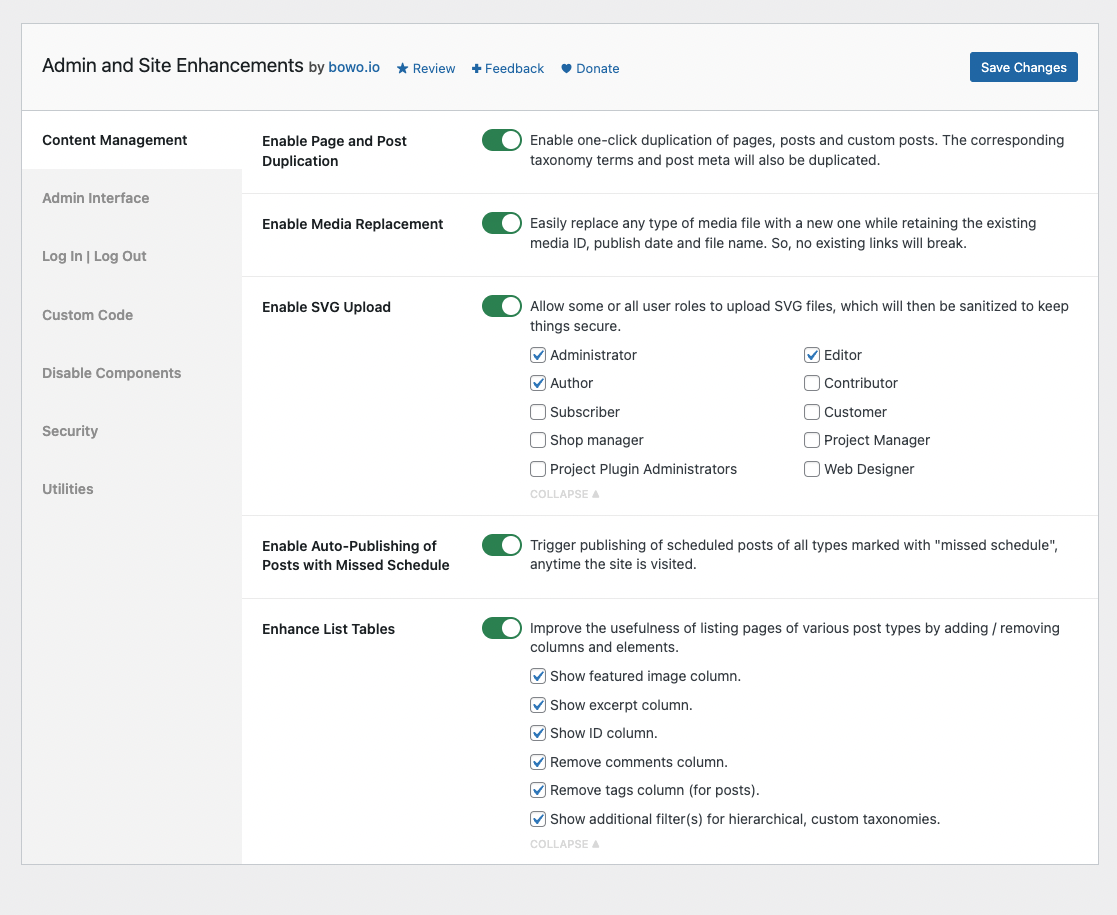
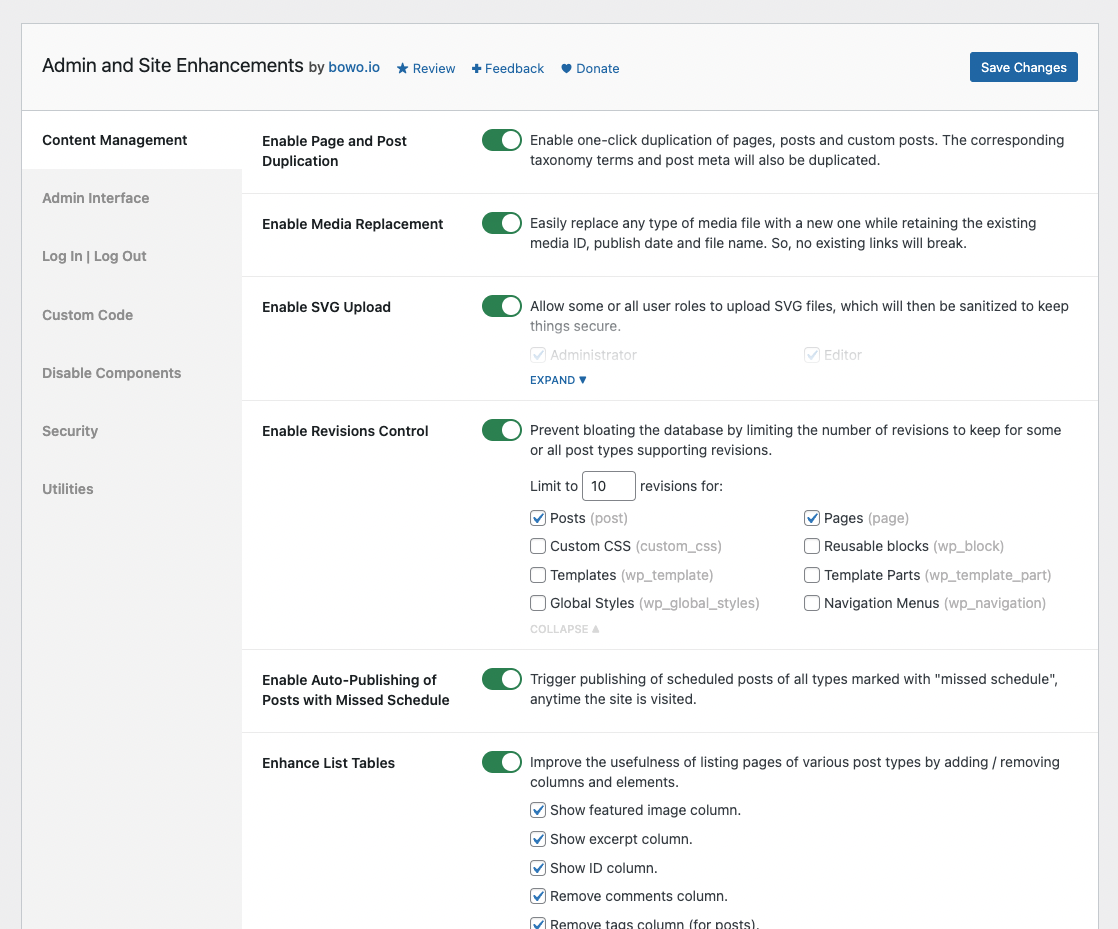
v3.7.0 release

diff --git a/admin-site-enhancements.php b/admin-site-enhancements.php
@@ -4,7 +4,7 @@
  * Plugin Name:       Admin and Site Enhancements
  * Plugin URI:        https://wordpress.org/plugins/admin-site-enhancements/
  * Description:       Easily enable enhancements and features that usually require multiple plugins.
- * Version:           3.6.1
+ * Version:           3.7.0
  * Author:            Bowo
  * Author URI:        https://bowo.io
  * License:           GPL-2.0+
@@ -18,7 +18,7 @@ if ( ! defined( 'ABSPATH' ) ) {
 	exit;
 }
 
-define( 'ASENHA_VERSION', '3.6.1' );
+define( 'ASENHA_VERSION', '3.7.0' );
 define( 'ASENHA_ID', 'asenha' );
 define( 'ASENHA_SLUG', 'admin-site-enhancements' );
 define( 'ASENHA_SLUG_U', 'admin_site_enhancements' );

diff --git a/README.md b/README.md
@@ -5,7 +5,7 @@ Donate link: https://paypal.me/qriouslad
 Tags: enhancements, tweaks, optimizations, tools  
 Requires at least: 4.6  
 Tested up to: 6.1.1  
-Stable tag: 3.6.1  
+Stable tag: 3.7.0  
 Requires PHP: 5.6  
 License: GPLv2 or later  
 License URI: http://www.gnu.org/licenses/gpl-2.0.html
@@ -23,6 +23,7 @@ Admin and Site Enhancements helps you to easily enhance various admin workflows 
 * **Enable Page and Post Duplication**. Enable one-click duplication of pages, posts and custom posts. The corresponding taxonomy terms and post meta will also be duplicated.
 * **Enable Media Replacement**. Easily replace any type of media file with a new one while retaining the existing media ID, publish date and file name. So, no existing links will break.
 * **Enable SVG Upload**. Allow some or all user roles to upload SVG files, which will then be sanitized to keep things secure.
+* **Enable Revisions Control**. Prevent bloating the database by limiting the number of revisions to keep for some or all post types supporting revisions.
 * **Enable Auto-Publishing of Posts with Missed Schedule**. Trigger publishing of scheduled posts of all types marked with "missed schedule", anytime the site is visited.
 * **Enhance List Tables**. Improve the usefulness of listing pages of various post types by adding / removing columns and elements.
   * _Show the featured image column_: in the list tables for pages and post types that support featured images.
@@ -119,6 +120,10 @@ Admin and Site Enhancements will include more enhancements, tweaks and useful fe
 Hoping that this is useful in reducing the number of plugins we install the first time we set up a site.
 
 ## Changelog
+
+### 3.7.0 (2022.12.25)
+
+* **[ADDED] Content Management >> Enable Revisions Control**. Prevent bloating the database by limiting the number of revisions to keep for some or all post types supporting revisions.
 
 ### 3.6.1 (2022.12.22)
 
